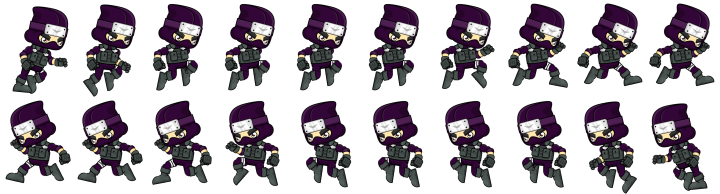
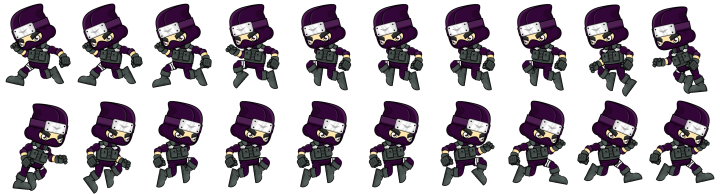
Fix sprite sheets for player

diff --git a/src/index.js b/src/index.js
@@ -50,18 +50,17 @@ document.addEventListener("DOMContentLoaded", () => {
     player.jumping = false;
   });
 
-
+  // set FPS rate
   let fpsInterval, current, then, elapsed;
 
-  // set FPS rate
-  function startAnimation(fps) {
+  function startPlayerAnimation(fps) {
     fpsInterval = 1000/fps;
     then = Date.now();
-    animate();
+    animatePlayer();
   }
 
-  function animate() {
-    requestAnimationFrame(animate);
+  function animatePlayer() {
+    requestAnimationFrame(animatePlayer);
     current = Date.now();
     elapsed = current - then;
     let spriteChecker;
@@ -79,12 +78,12 @@ document.addEventListener("DOMContentLoaded", () => {
         } else {
           player.frameX = 0;
         }
+        player.frameY = 0;
         player.width = 46;
         player.height = 88;
-        player.frameY = 0;
+
+        //render moving sprite: 1 = Face Right, 0 = Face Left
       } else if (player.moving && !player.jumping) {
-        //render moving sprite
-        // console.log("CURRENTKEY", player.currentKey);
         if (player.currentKey === 'ArrowRight') {
           player.frameY = 1;
         } else {
@@ -93,19 +92,21 @@ document.addEventListener("DOMContentLoaded", () => {
         player.width = 73;
         player.height = 92;
         spriteChecker = playerRunSprite;
+
+        //render jump sprite: 0 = Face Right, 1 = Face Left
       } else {
-        //render jump sprite
         console.log("currentKey", player.currentKey);
         if (player.currentKey === 'ArrowRight') {
-          player.frameY = 0;
-        } else {
           player.frameY = 1;
+        } else {
+          player.frameY = 0;
         }
         player.width = 72;
         player.height = 97;
         spriteChecker = playerJumpSprite;
       }
 
+      //ctx.drawImage(img, sX, sY, sW, sH, dX, dY, dW, dH);
       ctx.drawImage(
         spriteChecker, 
         player.width * player.frameX, 
@@ -125,7 +126,7 @@ document.addEventListener("DOMContentLoaded", () => {
     }
   };
 
-  startAnimation(45);
+  startPlayerAnimation(45);
 });
 
 

diff --git a/src/assets/classes/player.js b/src/assets/classes/player.js
@@ -7,6 +7,7 @@ class Player {
     this.frameX = 0;
     this.frameY = 0;
     this.speed = 10;
+    this.speedY = 20;
     this.moving = false;
     this.jumping = false;
     this.CANVASWIDTH = 800;
@@ -17,23 +18,26 @@ class Player {
 
   movePlayer() {
     //move right. 75px away from right wall
-    if (this.KEYS.ArrowRight && this.x < this.CANVASWIDTH - 75) {
+    if (this.KEYS.ArrowRight && this.x < this.CANVASWIDTH - 55) {
       this.x += this.speed;
       this.frameY = 1;
       this.moving = true;
     }
 
     //move left. 5px away from left wall
-    if (this.KEYS.ArrowLeft && this.x > 5) {
+    if (this.KEYS.ArrowLeft && this.x > 0) {
       this.x -= this.speed;
       this.frameY = 0;
       this.moving = true;
     }
 
+    console.log("KEYS", this.KEYS);
+    console.log("FRAMEY", this.frameY);
+    console.log("FRAMEX", this.frameX);
     // if (this.KEYS[' '] && this.frameX > 5) {
-    //   this.y -= this.speed * 2;
+    //   this.y = this.speedY;
     // } else {
-    //   this.y += this.speed;
+    //   this.y = this.speedY;
     // }
   }
 
